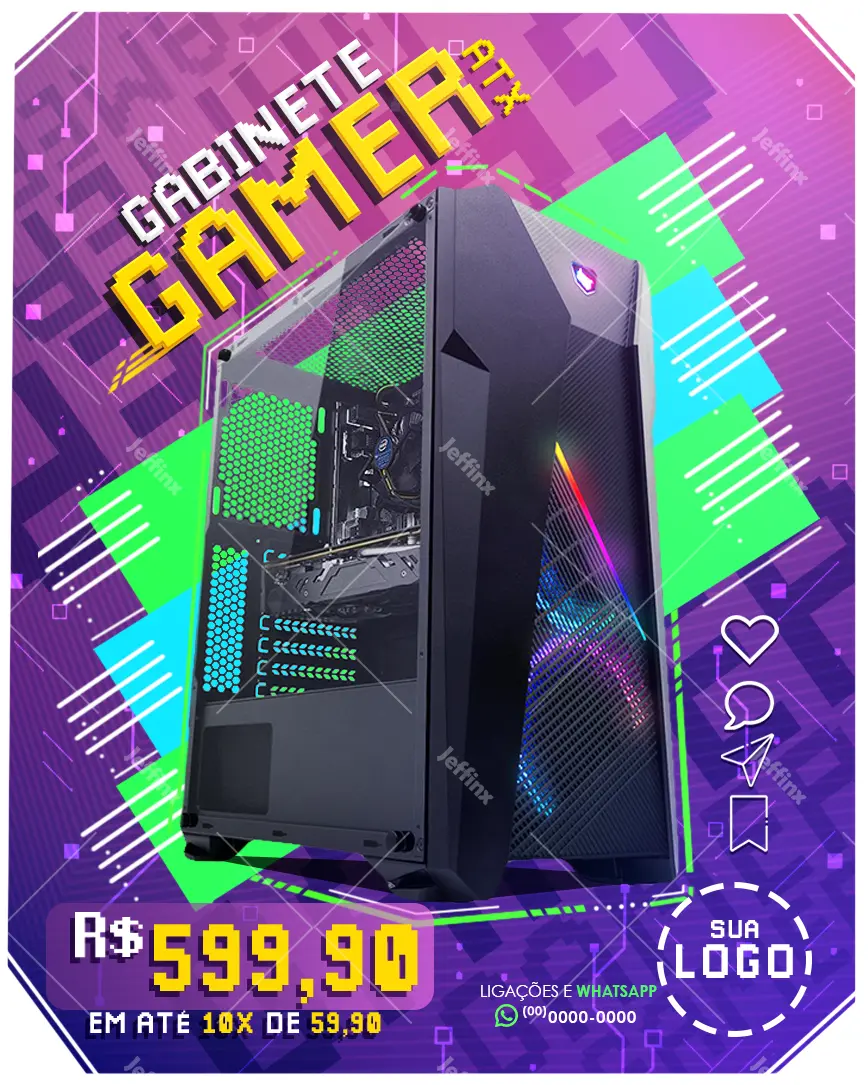
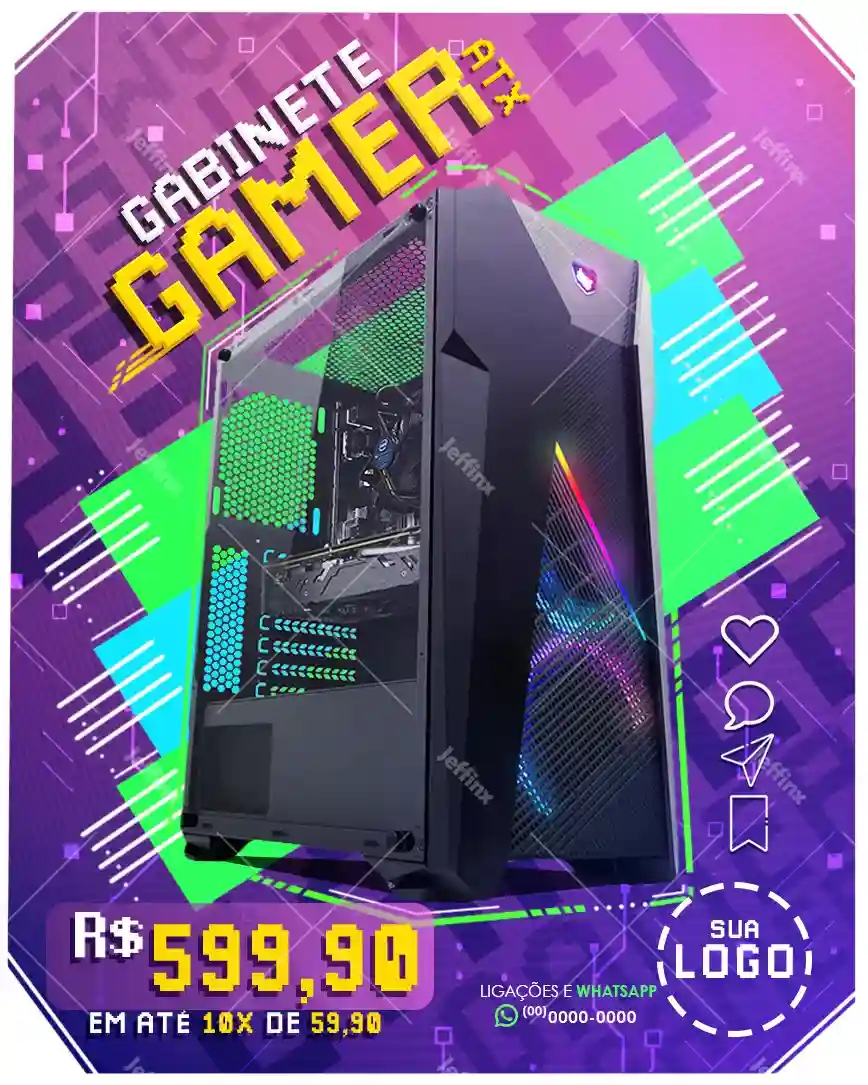
up

diff --git a/index.html b/index.html
@@ -507,7 +507,7 @@
     
                         <div class="carousel-item">
                             <figure class="project-image">
-                                <img src="/src/image/Presente-Natal.png" alt="Imagem Presente de Natal" loading="lazy">
+                                <img src="/src/image/Presente-Natal.webp" alt="Imagem Presente de Natal" loading="lazy">
                                 <figcaption class="project-label project-label--personal">Projeto Pessoal</figcaption>
                             </figure>
                             <div class="project-info">
@@ -531,7 +531,7 @@
     
                         <div class="carousel-item">
                             <figure class="project-image">
-                                <img src="/src/image/site.png" alt="Imagem do projeto Meu Portfólio" loading="lazy">
+                                <img src="/src/image/site.webp" alt="Imagem do projeto Meu Portfólio" loading="lazy">
                                 <figcaption class="project-label project-label--personal">Projeto Pessoal</figcaption>
                             </figure>
                             <div class="project-info">
@@ -543,7 +543,7 @@
     
                         <div class="carousel-item">
                             <figure class="project-image">
-                                <img src="/src/image/bookmark.png" alt="Imagem do projeto Bookmark Project" loading="lazy">
+                                <img src="/src/image/bookmark.webp" alt="Imagem do projeto Bookmark Project" loading="lazy">
                                 <figcaption class="project-label project-label--personal">Projeto Pessoal</figcaption>
                             </figure>
                             <div class="project-info">
@@ -555,7 +555,7 @@
                         
                         <div class="carousel-item">
                             <figure class="project-image">
-                                <img src="/src/image/acsendoflex.png" alt="Imagem do projeto Acsendoflex" loading="lazy">
+                                <img src="/src/image/acsendoflex.webp" alt="Imagem do projeto Acsendoflex" loading="lazy">
                                 <figcaption class="project-label project-label--personal">Projeto Pessoal</figcaption>
                             </figure>
                             <div class="project-info">
@@ -567,7 +567,7 @@
     
                         <div class="carousel-item">
                             <figure class="project-image">
-                                <img src="/src/image/Zomato.png" alt="Imagem do projeto Zomato" loading="lazy">
+                                <img src="/src/image/Zomato.webp" alt="Imagem do projeto Zomato" loading="lazy">
                                 <figcaption class="project-label project-label--personal">Projeto Pessoal</figcaption>
                             </figure>
                             <div class="project-info">
@@ -579,7 +579,7 @@
                         
                         <div class="carousel-item">
                             <figure class="project-image">
-                                <img src="/src/image/Screenshot_1023.png" alt="Imagem do projeto Seca e Define" loading="lazy">
+                                <img src="/src/image/Screenshot_1023.webp" alt="Imagem do projeto Seca e Define" loading="lazy">
                                 <figcaption class="project-label project-label--contracted">Projeto Contratado</figcaption>
                             </figure>
                             <div class="project-info">
@@ -603,12 +603,12 @@
                 <div class="certificates__grid">
                     <article class="certificate__item">
                         <figure class="certificate__image-wrapper">
-                            <img src="./src/image/Certificado-TRUINFO.png" alt="Certificado StartWeb" class="certificate__image" loading="lazy">
+                            <img src="./src/image/Certificado-TRUINFO.webp" alt="Certificado StartWeb" class="certificate__image" loading="lazy">
                         </figure>
                         <div class="certificate__info">
                             <h3 class="certificate__title">StartWeb</h3>
                             <p class="certificate__description">Curso intensivo de desenvolvimento web com foco em HTML, CSS e JavaScript.</p>
-                            <a href="./src/image/Certificado-TRUINFO.png" class="button button--secondary-certificate" target="_blank" rel="noopener noreferrer">
+                            <a href="./src/image/Certificado-TRUINFO.webp" class="button button--secondary-certificate" target="_blank" rel="noopener noreferrer">
                                 Ver Certificado
                             </a>
                         </div>

diff --git a/Artistadigital.html b/Artistadigital.html
@@ -170,42 +170,42 @@
                         </div>
                         <div class="art-carousel__item">
                             <figure class="artwork-image">
-                                <img src="./src/image/Artes/bratails-360-2023.jpg" alt="Bratails 360" loading="lazy">
+                                <img src="./src/image/Artes/bratails-360-2023.webp" alt="Bratails 360" loading="lazy">
                             </figure>
                         </div>
                         <div class="art-carousel__item">
                             <figure class="artwork-image">
-                                <img src="./src/image/Artes/Bratails-V2-sorrindo.jpg" alt="Bratails sorrindo" loading="lazy">
+                                <img src="./src/image/Artes/Bratails-V2-sorrindo.webp" alt="Bratails sorrindo" loading="lazy">
                             </figure>
                         </div>
                         <div class="art-carousel__item">
                             <figure class="artwork-image">
-                                <img src="./src/image/Artes/Bratailsnave.jpg" alt="Bratails na nave" loading="lazy">
+                                <img src="./src/image/Artes/Bratailsnave.webp" alt="Bratails na nave" loading="lazy">
                             </figure>
                         </div>
                         <div class="art-carousel__item">
                             <figure class="artwork-image">
-                                <img src="./src/image/Artes/As-Gemeas.jpg" alt="Duas espadas" loading="lazy">
+                                <img src="./src/image/Artes/As-Gemeas.webp" alt="Duas espadas" loading="lazy">
                             </figure>
                         </div>
                         <div class="art-carousel__item">
                             <figure class="artwork-image">
-                                <img src="./src/image/Artes/Simbolos-da-forma-ANGEL.jpg" alt="Símbolos da forma ANGEL" loading="lazy">
+                                <img src="./src/image/Artes/Simbolos-da-forma-ANGEL.webp" alt="Símbolos da forma ANGEL" loading="lazy">
                             </figure>
                         </div>
                         <div class="art-carousel__item">
                             <figure class="artwork-image">
-                                <img src="./src/image/Artes/the-four-kingdoms-(2).jpg" alt="The Four Kingdoms" loading="lazy">
+                                <img src="./src/image/Artes/the-four-kingdoms-(2).webp" alt="The Four Kingdoms" loading="lazy">
                             </figure>
                         </div>
                         <div class="art-carousel__item">
                             <figure class="artwork-image">
-                                <img src="./src/image/Artes/O-furry-que-mata-furrys.jpg" alt="O Furry que mata Furrys" loading="lazy">
+                                <img src="./src/image/Artes/O-furry-que-mata-furrys.webp" alt="O Furry que mata Furrys" loading="lazy">
                             </figure>
                         </div>
                         <div class="art-carousel__item">
                             <figure class="artwork-image">
-                                <img src="./src/image/Artes/Annie.jpg" alt="Annie" loading="lazy">
+                                <img src="./src/image/Artes/Annie.webp" alt="Annie" loading="lazy">
                             </figure>
                         </div>
                         </div>
@@ -218,12 +218,12 @@
 
         <section id="return-section" class="section">
             <div class="container">
-            <h2 class="section__title return-title">Voltar para a Página Principal</h2>
-            <p class="section__subtitle return-description">Volte para a página inicial para explorar mais conteúdo.</p>
-            <a href="index.html" class="button button--primary return-link">
-                <span class="iconify" data-icon="mdi:home" data-width="24" data-height="24"></span>
-                Ir para a Página Inicial
-            </a>
+                <h2 class="section__title return-title">Voltar para a Página Principal</h2>
+                <p class="section__subtitle return-description">Volte para a página inicial para explorar mais conteúdo.</p>
+                <a href="index.html" class="button button--primary return-link">
+                    <span class="iconify" data-icon="mdi:home" data-width="24" data-height="24"></span>
+                    Ir para a Página Inicial
+                </a>
             </div>
         </section>
     </main>
